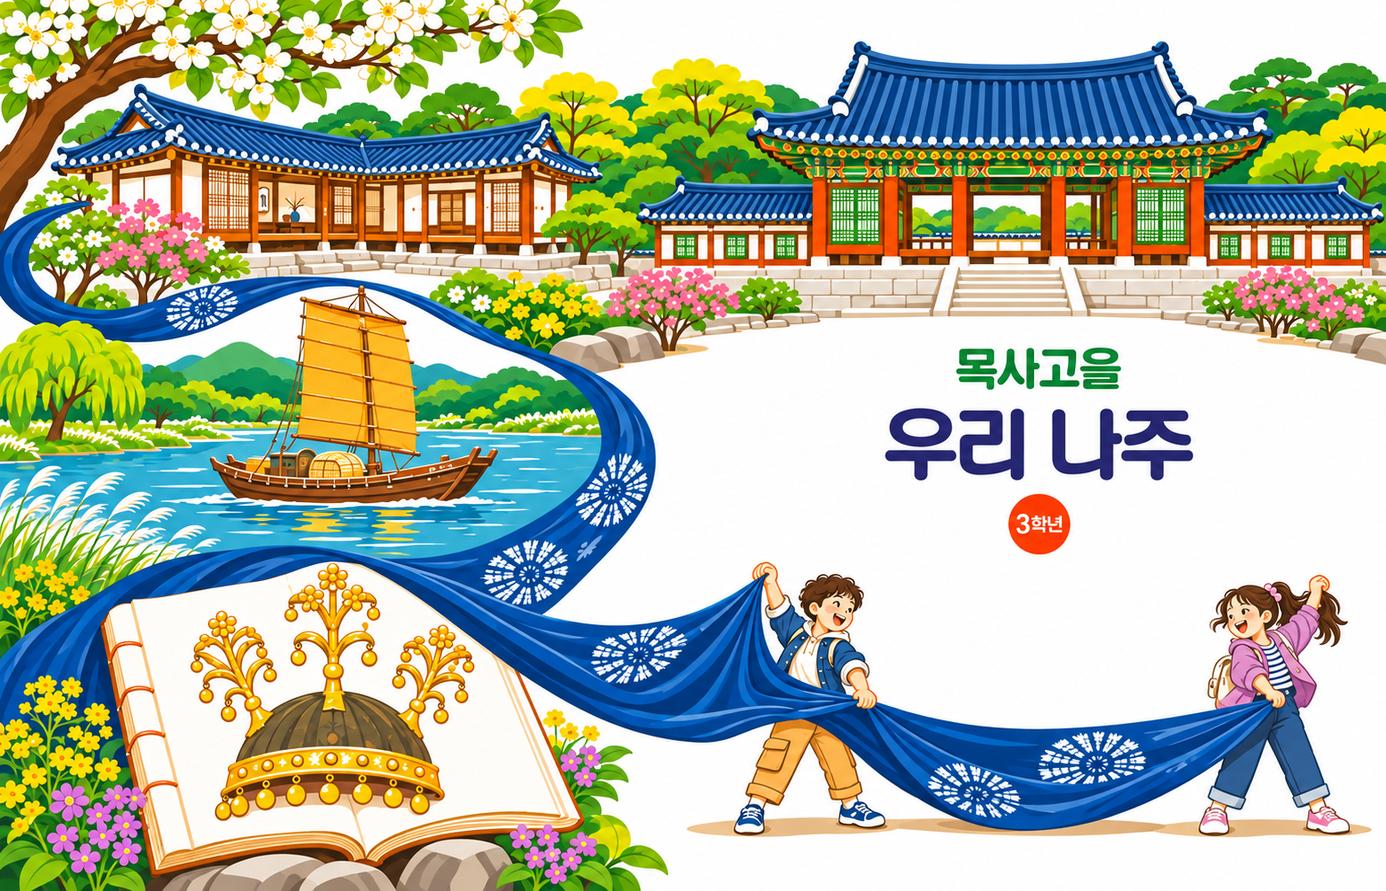
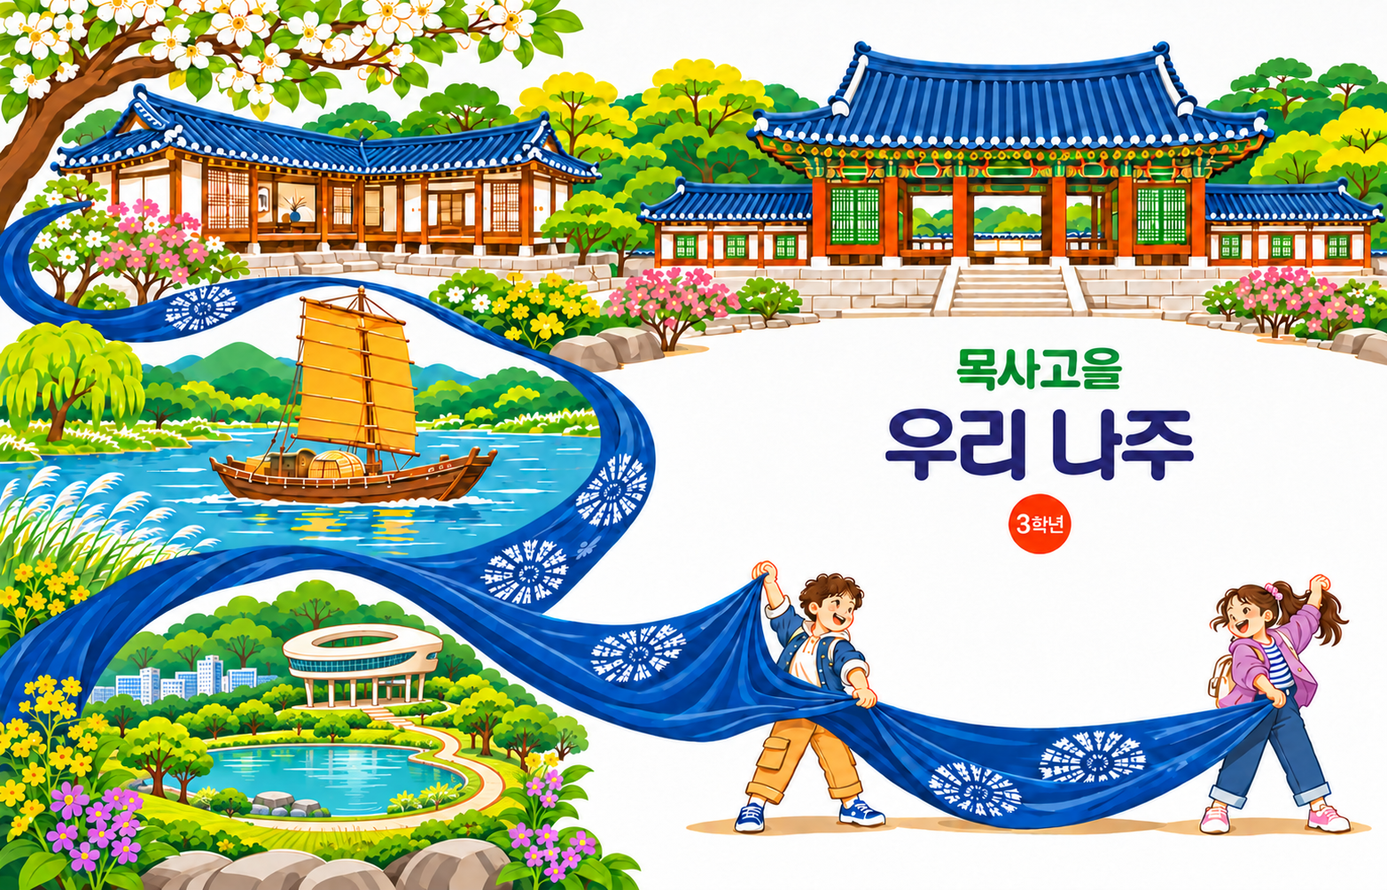
Update cover 77 with Bitgaram Lake Park and observatory

diff --git a/docs/index.html b/docs/index.html
@@ -17,7 +17,7 @@ html.front-mode .viewer-stage img:not(.front-page) {
   clip-path:inset(0 0 0 50%);
   transform:translateX(-25%);
   flex:none;
-}</style><link rel="stylesheet" href="editorial.css?v=4"><header><h1>목사고을 우리 나주</h1><p>표지 시안 10점</p><div class="gallery-tools"><nav aria-label="갤러리 메뉴"><a aria-current="page" data-view="spread" href="index.html?menu=4">펼친표지</a><a data-view="front" href="index.html?menu=4&amp;view=front">앞표지</a><a data-view="original" href="characters.html?menu=4">기존 캐릭터</a><a data-view="added" href="added.html?menu=4">추가 캐릭터</a></nav></div><div class="filter"><button id="compare" hidden disabled>선택 비교 (0)</button><small id="compare-hint" hidden>2~3장 선택</small></div></header><main><section><h2 class="series-title">하늘에서 본 나주</h2><div class="grid"><article id="cover-06"><a data-front="https://raw.githubusercontent.com/hhj3839/textbook/main/gallery/river-lake/front-06.webp" href="https://raw.githubusercontent.com/hhj3839/textbook/main/gallery/river-lake/cover-06.webp"><img loading="lazy" src="https://raw.githubusercontent.com/hhj3839/textbook/main/gallery/river-lake/cover-06.webp" alt="06번 논마다 반복되는 무늬 · 화이트톤"><b class="number">06</b><span>논마다 반복되는 무늬 · 화이트톤</span></a><label class="pick"><input type="checkbox" aria-label="06번 비교 선택">비교</label></article><article id="cover-21"><a data-front="https://raw.githubusercontent.com/hhj3839/textbook/main/gallery/river-lake/front-21.webp" href="https://raw.githubusercontent.com/hhj3839/textbook/main/gallery/river-lake/cover-21.webp"><img loading="lazy" src="https://raw.githubusercontent.com/hhj3839/textbook/main/gallery/river-lake/cover-21.webp" alt="21번 작은 입체 지도"><b class="number">21</b><span>작은 입체 지도</span></a><label class="pick"><input type="checkbox" aria-label="21번 비교 선택">비교</label></article><article id="cover-24"><a data-front="https://raw.githubusercontent.com/hhj3839/textbook/main/gallery/river-lake/front-24.webp" href="https://raw.githubusercontent.com/hhj3839/textbook/main/gallery/river-lake/cover-24.webp"><img loading="lazy" src="https://raw.githubusercontent.com/hhj3839/textbook/main/gallery/river-lake/cover-24.webp" alt="24번 강물에 비친 오후"><b class="number">24</b><span>강물에 비친 오후</span></a><label class="pick"><input type="checkbox" aria-label="24번 비교 선택">비교</label></article></div></section><section><h2 class="series-title">금성관 처마 아래</h2><div class="grid"><article id="cover-27"><a data-front="https://raw.githubusercontent.com/hhj3839/textbook/main/gallery/heritage-revision/front-27.webp" href="https://raw.githubusercontent.com/hhj3839/textbook/main/gallery/heritage-revision/cover-27.webp"><img loading="lazy" src="https://raw.githubusercontent.com/hhj3839/textbook/main/gallery/heritage-revision/cover-27.webp" alt="27번 통통한 서까래 끝 · 화이트톤"><b class="number">27</b><span>통통한 서까래 끝 · 화이트톤</span></a><label class="pick"><input type="checkbox" aria-label="27번 비교 선택">비교</label></article><article id="cover-30"><a data-front="https://raw.githubusercontent.com/hhj3839/textbook/main/gallery/heritage-revision/front-30.webp" href="https://raw.githubusercontent.com/hhj3839/textbook/main/gallery/heritage-revision/cover-30.webp"><img loading="lazy" src="https://raw.githubusercontent.com/hhj3839/textbook/main/gallery/heritage-revision/cover-30.webp" alt="30번 꽃무늬가 반복되는 처마 · 화이트톤"><b class="number">30</b><span>꽃무늬가 반복되는 처마 · 화이트톤</span></a><label class="pick"><input type="checkbox" aria-label="30번 비교 선택">비교</label></article></div></section><section><h2 class="series-title">금성관 마당과 쪽빛 천</h2><div class="grid"><article id="cover-76"><a data-front="https://raw.githubusercontent.com/hhj3839/textbook/main/gallery/courtyard/front-76.webp" href="https://raw.githubusercontent.com/hhj3839/textbook/main/gallery/courtyard/cover-76.webp"><img srcset="https://raw.githubusercontent.com/hhj3839/textbook/main/gallery/courtyard/cover-76.webp" sizes="(max-width:700px) 47vw, (max-width:1500px) 32vw, 470px" loading="lazy" src="https://raw.githubusercontent.com/hhj3839/textbook/main/gallery/courtyard/cover-76.webp" alt="76번 금성관 마당의 쪽빛 천"><b class="number">76</b><span>금성관 마당의 쪽빛 천</span></a><label class="pick"><input type="checkbox" aria-label="76번 비교 선택">비교</label></article><article id="cover-77"><a data-front="https://raw.githubusercontent.com/hhj3839/textbook/main/gallery/refined/front-77.webp" href="https://raw.githubusercontent.com/hhj3839/textbook/main/gallery/refined/cover-77.webp"><img srcset="https://raw.githubusercontent.com/hhj3839/textbook/main/gallery/refined/cover-77.webp" sizes="(max-width:700px) 47vw, (max-width:1500px) 32vw, 470px" loading="lazy" src="https://raw.githubusercontent.com/hhj3839/textbook/main/gallery/refined/cover-77.webp" alt="77번 쪽빛 천과 금동관"><b class="number">77</b><span>쪽빛 천과 금동관</span></a><label class="pick"><input type="checkbox" aria-label="77번 비교 선택">비교</label></article></div></section><section><h2 class="series-title">나주 풍경 펼친 표지</h2><div class="grid"><article id="cover-81"><a data-front="https://raw.githubusercontent.com/hhj3839/textbook/main/gallery/naju-spreads/front-81.webp" href="https://raw.githubusercontent.com/hhj3839/textbook/main/gallery/naju-spreads/cover-81.webp"><img loading="lazy" src="https://raw.githubusercontent.com/hhj3839/textbook/main/gallery/naju-spreads/cover-81.webp" alt="81번 황포돛배와 영산강"><b class="number">81</b><span>황포돛배와 영산강</span></a><label class="pick"><input type="checkbox" aria-label="81번 비교 선택">비교</label></article><article id="cover-82"><a data-front="https://raw.githubusercontent.com/hhj3839/textbook/main/gallery/naju-spreads/front-82.webp" href="https://raw.githubusercontent.com/hhj3839/textbook/main/gallery/naju-spreads/cover-82.webp"><img loading="lazy" src="https://raw.githubusercontent.com/hhj3839/textbook/main/gallery/naju-spreads/cover-82.webp" alt="82번 금성관 마당"><b class="number">82</b><span>금성관 마당</span></a><label class="pick"><input type="checkbox" aria-label="82번 비교 선택">비교</label></article><article id="cover-83"><a data-front="https://raw.githubusercontent.com/hhj3839/textbook/main/gallery/naju-spreads/front-83.webp" href="https://raw.githubusercontent.com/hhj3839/textbook/main/gallery/naju-spreads/cover-83.webp"><img loading="lazy" src="https://raw.githubusercontent.com/hhj3839/textbook/main/gallery/naju-spreads/cover-83.webp" alt="83번 강가의 등대와 빛가람전망대"><b class="number">83</b><span>강가의 등대와 빛가람전망대</span></a><label class="pick"><input type="checkbox" aria-label="83번 비교 선택">비교</label></article></div></section></main><dialog aria-label="선택한 표지 비교"><header><h2>선택한 표지</h2><button type="button">닫기</button></header><div class="grid"></div></dialog><script>if (new URLSearchParams(location.search).get('view') === 'front') {
+}</style><link rel="stylesheet" href="editorial.css?v=4"><header><h1>목사고을 우리 나주</h1><p>표지 시안 10점</p><div class="gallery-tools"><nav aria-label="갤러리 메뉴"><a aria-current="page" data-view="spread" href="index.html?menu=4">펼친표지</a><a data-view="front" href="index.html?menu=4&amp;view=front">앞표지</a><a data-view="original" href="characters.html?menu=4">기존 캐릭터</a><a data-view="added" href="added.html?menu=4">추가 캐릭터</a></nav></div><div class="filter"><button id="compare" hidden disabled>선택 비교 (0)</button><small id="compare-hint" hidden>2~3장 선택</small></div></header><main><section><h2 class="series-title">하늘에서 본 나주</h2><div class="grid"><article id="cover-06"><a data-front="https://raw.githubusercontent.com/hhj3839/textbook/main/gallery/river-lake/front-06.webp" href="https://raw.githubusercontent.com/hhj3839/textbook/main/gallery/river-lake/cover-06.webp"><img loading="lazy" src="https://raw.githubusercontent.com/hhj3839/textbook/main/gallery/river-lake/cover-06.webp" alt="06번 논마다 반복되는 무늬 · 화이트톤"><b class="number">06</b><span>논마다 반복되는 무늬 · 화이트톤</span></a><label class="pick"><input type="checkbox" aria-label="06번 비교 선택">비교</label></article><article id="cover-21"><a data-front="https://raw.githubusercontent.com/hhj3839/textbook/main/gallery/river-lake/front-21.webp" href="https://raw.githubusercontent.com/hhj3839/textbook/main/gallery/river-lake/cover-21.webp"><img loading="lazy" src="https://raw.githubusercontent.com/hhj3839/textbook/main/gallery/river-lake/cover-21.webp" alt="21번 작은 입체 지도"><b class="number">21</b><span>작은 입체 지도</span></a><label class="pick"><input type="checkbox" aria-label="21번 비교 선택">비교</label></article><article id="cover-24"><a data-front="https://raw.githubusercontent.com/hhj3839/textbook/main/gallery/river-lake/front-24.webp" href="https://raw.githubusercontent.com/hhj3839/textbook/main/gallery/river-lake/cover-24.webp"><img loading="lazy" src="https://raw.githubusercontent.com/hhj3839/textbook/main/gallery/river-lake/cover-24.webp" alt="24번 강물에 비친 오후"><b class="number">24</b><span>강물에 비친 오후</span></a><label class="pick"><input type="checkbox" aria-label="24번 비교 선택">비교</label></article></div></section><section><h2 class="series-title">금성관 처마 아래</h2><div class="grid"><article id="cover-27"><a data-front="https://raw.githubusercontent.com/hhj3839/textbook/main/gallery/heritage-revision/front-27.webp" href="https://raw.githubusercontent.com/hhj3839/textbook/main/gallery/heritage-revision/cover-27.webp"><img loading="lazy" src="https://raw.githubusercontent.com/hhj3839/textbook/main/gallery/heritage-revision/cover-27.webp" alt="27번 통통한 서까래 끝 · 화이트톤"><b class="number">27</b><span>통통한 서까래 끝 · 화이트톤</span></a><label class="pick"><input type="checkbox" aria-label="27번 비교 선택">비교</label></article><article id="cover-30"><a data-front="https://raw.githubusercontent.com/hhj3839/textbook/main/gallery/heritage-revision/front-30.webp" href="https://raw.githubusercontent.com/hhj3839/textbook/main/gallery/heritage-revision/cover-30.webp"><img loading="lazy" src="https://raw.githubusercontent.com/hhj3839/textbook/main/gallery/heritage-revision/cover-30.webp" alt="30번 꽃무늬가 반복되는 처마 · 화이트톤"><b class="number">30</b><span>꽃무늬가 반복되는 처마 · 화이트톤</span></a><label class="pick"><input type="checkbox" aria-label="30번 비교 선택">비교</label></article></div></section><section><h2 class="series-title">금성관 마당과 쪽빛 천</h2><div class="grid"><article id="cover-76"><a data-front="https://raw.githubusercontent.com/hhj3839/textbook/main/gallery/courtyard/front-76.webp" href="https://raw.githubusercontent.com/hhj3839/textbook/main/gallery/courtyard/cover-76.webp"><img srcset="https://raw.githubusercontent.com/hhj3839/textbook/main/gallery/courtyard/cover-76.webp" sizes="(max-width:700px) 47vw, (max-width:1500px) 32vw, 470px" loading="lazy" src="https://raw.githubusercontent.com/hhj3839/textbook/main/gallery/courtyard/cover-76.webp" alt="76번 금성관 마당의 쪽빛 천"><b class="number">76</b><span>금성관 마당의 쪽빛 천</span></a><label class="pick"><input type="checkbox" aria-label="76번 비교 선택">비교</label></article><article id="cover-77"><a data-front="https://raw.githubusercontent.com/hhj3839/textbook/main/gallery/refined/front-77.webp" href="https://raw.githubusercontent.com/hhj3839/textbook/main/gallery/refined/cover-77.webp"><img srcset="https://raw.githubusercontent.com/hhj3839/textbook/main/gallery/refined/cover-77.webp" sizes="(max-width:700px) 47vw, (max-width:1500px) 32vw, 470px" loading="lazy" src="https://raw.githubusercontent.com/hhj3839/textbook/main/gallery/refined/cover-77.webp" alt="77번 쪽빛 천과 빛가람호수공원 전망대"><b class="number">77</b><span>쪽빛 천과 빛가람호수공원 전망대</span></a><label class="pick"><input type="checkbox" aria-label="77번 비교 선택">비교</label></article></div></section><section><h2 class="series-title">나주 풍경 펼친 표지</h2><div class="grid"><article id="cover-81"><a data-front="https://raw.githubusercontent.com/hhj3839/textbook/main/gallery/naju-spreads/front-81.webp" href="https://raw.githubusercontent.com/hhj3839/textbook/main/gallery/naju-spreads/cover-81.webp"><img loading="lazy" src="https://raw.githubusercontent.com/hhj3839/textbook/main/gallery/naju-spreads/cover-81.webp" alt="81번 황포돛배와 영산강"><b class="number">81</b><span>황포돛배와 영산강</span></a><label class="pick"><input type="checkbox" aria-label="81번 비교 선택">비교</label></article><article id="cover-82"><a data-front="https://raw.githubusercontent.com/hhj3839/textbook/main/gallery/naju-spreads/front-82.webp" href="https://raw.githubusercontent.com/hhj3839/textbook/main/gallery/naju-spreads/cover-82.webp"><img loading="lazy" src="https://raw.githubusercontent.com/hhj3839/textbook/main/gallery/naju-spreads/cover-82.webp" alt="82번 금성관 마당"><b class="number">82</b><span>금성관 마당</span></a><label class="pick"><input type="checkbox" aria-label="82번 비교 선택">비교</label></article><article id="cover-83"><a data-front="https://raw.githubusercontent.com/hhj3839/textbook/main/gallery/naju-spreads/front-83.webp" href="https://raw.githubusercontent.com/hhj3839/textbook/main/gallery/naju-spreads/cover-83.webp"><img loading="lazy" src="https://raw.githubusercontent.com/hhj3839/textbook/main/gallery/naju-spreads/cover-83.webp" alt="83번 강가의 등대와 빛가람전망대"><b class="number">83</b><span>강가의 등대와 빛가람전망대</span></a><label class="pick"><input type="checkbox" aria-label="83번 비교 선택">비교</label></article></div></section></main><dialog aria-label="선택한 표지 비교"><header><h2>선택한 표지</h2><button type="button">닫기</button></header><div class="grid"></div></dialog><script>if (new URLSearchParams(location.search).get('view') === 'front') {
   document.documentElement.classList.add('front-mode');
   document.querySelector('[data-view="spread"]').removeAttribute('aria-current');
   document.querySelector('[data-view="front"]').setAttribute('aria-current','page');

diff --git a/index.html b/index.html
@@ -17,7 +17,7 @@ html.front-mode .viewer-stage img:not(.front-page) {
   clip-path:inset(0 0 0 50%);
   transform:translateX(-25%);
   flex:none;
-}</style><link rel="stylesheet" href="docs/editorial.css?v=4"><header><h1>목사고을 우리 나주</h1><p>표지 시안 10점</p><div class="gallery-tools"><nav aria-label="갤러리 메뉴"><a aria-current="page" data-view="spread" href="index.html?menu=4">펼친표지</a><a data-view="front" href="index.html?menu=4&amp;view=front">앞표지</a><a data-view="original" href="characters.html?menu=4">기존 캐릭터</a><a data-view="added" href="added.html?menu=4">추가 캐릭터</a></nav></div><div class="filter"><button id="compare" hidden disabled>선택 비교 (0)</button><small id="compare-hint" hidden>2~3장 선택</small></div></header><main><section><h2 class="series-title">하늘에서 본 나주</h2><div class="grid"><article id="cover-06"><a data-front="gallery/river-lake/front-06.webp" href="gallery/river-lake/cover-06.webp"><img loading="lazy" src="gallery/river-lake/cover-06.webp" alt="06번 논마다 반복되는 무늬 · 화이트톤"><b class="number">06</b><span>논마다 반복되는 무늬 · 화이트톤</span></a><label class="pick"><input type="checkbox" aria-label="06번 비교 선택">비교</label></article><article id="cover-21"><a data-front="gallery/river-lake/front-21.webp" href="gallery/river-lake/cover-21.webp"><img loading="lazy" src="gallery/river-lake/cover-21.webp" alt="21번 작은 입체 지도"><b class="number">21</b><span>작은 입체 지도</span></a><label class="pick"><input type="checkbox" aria-label="21번 비교 선택">비교</label></article><article id="cover-24"><a data-front="gallery/river-lake/front-24.webp" href="gallery/river-lake/cover-24.webp"><img loading="lazy" src="gallery/river-lake/cover-24.webp" alt="24번 강물에 비친 오후"><b class="number">24</b><span>강물에 비친 오후</span></a><label class="pick"><input type="checkbox" aria-label="24번 비교 선택">비교</label></article></div></section><section><h2 class="series-title">금성관 처마 아래</h2><div class="grid"><article id="cover-27"><a data-front="gallery/heritage-revision/front-27.webp" href="gallery/heritage-revision/cover-27.webp"><img loading="lazy" src="gallery/heritage-revision/cover-27.webp" alt="27번 통통한 서까래 끝 · 화이트톤"><b class="number">27</b><span>통통한 서까래 끝 · 화이트톤</span></a><label class="pick"><input type="checkbox" aria-label="27번 비교 선택">비교</label></article><article id="cover-30"><a data-front="gallery/heritage-revision/front-30.webp" href="gallery/heritage-revision/cover-30.webp"><img loading="lazy" src="gallery/heritage-revision/cover-30.webp" alt="30번 꽃무늬가 반복되는 처마 · 화이트톤"><b class="number">30</b><span>꽃무늬가 반복되는 처마 · 화이트톤</span></a><label class="pick"><input type="checkbox" aria-label="30번 비교 선택">비교</label></article></div></section><section><h2 class="series-title">금성관 마당과 쪽빛 천</h2><div class="grid"><article id="cover-76"><a data-front="gallery/courtyard/front-76.webp" href="gallery/courtyard/cover-76.webp"><img srcset="gallery/courtyard/cover-76.webp" sizes="(max-width:700px) 47vw, (max-width:1500px) 32vw, 470px" loading="lazy" src="gallery/courtyard/cover-76.webp" alt="76번 금성관 마당의 쪽빛 천"><b class="number">76</b><span>금성관 마당의 쪽빛 천</span></a><label class="pick"><input type="checkbox" aria-label="76번 비교 선택">비교</label></article><article id="cover-77"><a data-front="gallery/refined/front-77.webp" href="gallery/refined/cover-77.webp"><img srcset="gallery/refined/cover-77.webp" sizes="(max-width:700px) 47vw, (max-width:1500px) 32vw, 470px" loading="lazy" src="gallery/refined/cover-77.webp" alt="77번 쪽빛 천과 금동관"><b class="number">77</b><span>쪽빛 천과 금동관</span></a><label class="pick"><input type="checkbox" aria-label="77번 비교 선택">비교</label></article></div></section><section><h2 class="series-title">나주 풍경 펼친 표지</h2><div class="grid"><article id="cover-81"><a data-front="gallery/naju-spreads/front-81.webp" href="gallery/naju-spreads/cover-81.webp"><img loading="lazy" src="gallery/naju-spreads/cover-81.webp" alt="81번 황포돛배와 영산강"><b class="number">81</b><span>황포돛배와 영산강</span></a><label class="pick"><input type="checkbox" aria-label="81번 비교 선택">비교</label></article><article id="cover-82"><a data-front="gallery/naju-spreads/front-82.webp" href="gallery/naju-spreads/cover-82.webp"><img loading="lazy" src="gallery/naju-spreads/cover-82.webp" alt="82번 금성관 마당"><b class="number">82</b><span>금성관 마당</span></a><label class="pick"><input type="checkbox" aria-label="82번 비교 선택">비교</label></article><article id="cover-83"><a data-front="gallery/naju-spreads/front-83.webp" href="gallery/naju-spreads/cover-83.webp"><img loading="lazy" src="gallery/naju-spreads/cover-83.webp" alt="83번 강가의 등대와 빛가람전망대"><b class="number">83</b><span>강가의 등대와 빛가람전망대</span></a><label class="pick"><input type="checkbox" aria-label="83번 비교 선택">비교</label></article></div></section></main><dialog aria-label="선택한 표지 비교"><header><h2>선택한 표지</h2><button type="button">닫기</button></header><div class="grid"></div></dialog><script>if (new URLSearchParams(location.search).get('view') === 'front') {
+}</style><link rel="stylesheet" href="docs/editorial.css?v=4"><header><h1>목사고을 우리 나주</h1><p>표지 시안 10점</p><div class="gallery-tools"><nav aria-label="갤러리 메뉴"><a aria-current="page" data-view="spread" href="index.html?menu=4">펼친표지</a><a data-view="front" href="index.html?menu=4&amp;view=front">앞표지</a><a data-view="original" href="characters.html?menu=4">기존 캐릭터</a><a data-view="added" href="added.html?menu=4">추가 캐릭터</a></nav></div><div class="filter"><button id="compare" hidden disabled>선택 비교 (0)</button><small id="compare-hint" hidden>2~3장 선택</small></div></header><main><section><h2 class="series-title">하늘에서 본 나주</h2><div class="grid"><article id="cover-06"><a data-front="gallery/river-lake/front-06.webp" href="gallery/river-lake/cover-06.webp"><img loading="lazy" src="gallery/river-lake/cover-06.webp" alt="06번 논마다 반복되는 무늬 · 화이트톤"><b class="number">06</b><span>논마다 반복되는 무늬 · 화이트톤</span></a><label class="pick"><input type="checkbox" aria-label="06번 비교 선택">비교</label></article><article id="cover-21"><a data-front="gallery/river-lake/front-21.webp" href="gallery/river-lake/cover-21.webp"><img loading="lazy" src="gallery/river-lake/cover-21.webp" alt="21번 작은 입체 지도"><b class="number">21</b><span>작은 입체 지도</span></a><label class="pick"><input type="checkbox" aria-label="21번 비교 선택">비교</label></article><article id="cover-24"><a data-front="gallery/river-lake/front-24.webp" href="gallery/river-lake/cover-24.webp"><img loading="lazy" src="gallery/river-lake/cover-24.webp" alt="24번 강물에 비친 오후"><b class="number">24</b><span>강물에 비친 오후</span></a><label class="pick"><input type="checkbox" aria-label="24번 비교 선택">비교</label></article></div></section><section><h2 class="series-title">금성관 처마 아래</h2><div class="grid"><article id="cover-27"><a data-front="gallery/heritage-revision/front-27.webp" href="gallery/heritage-revision/cover-27.webp"><img loading="lazy" src="gallery/heritage-revision/cover-27.webp" alt="27번 통통한 서까래 끝 · 화이트톤"><b class="number">27</b><span>통통한 서까래 끝 · 화이트톤</span></a><label class="pick"><input type="checkbox" aria-label="27번 비교 선택">비교</label></article><article id="cover-30"><a data-front="gallery/heritage-revision/front-30.webp" href="gallery/heritage-revision/cover-30.webp"><img loading="lazy" src="gallery/heritage-revision/cover-30.webp" alt="30번 꽃무늬가 반복되는 처마 · 화이트톤"><b class="number">30</b><span>꽃무늬가 반복되는 처마 · 화이트톤</span></a><label class="pick"><input type="checkbox" aria-label="30번 비교 선택">비교</label></article></div></section><section><h2 class="series-title">금성관 마당과 쪽빛 천</h2><div class="grid"><article id="cover-76"><a data-front="gallery/courtyard/front-76.webp" href="gallery/courtyard/cover-76.webp"><img srcset="gallery/courtyard/cover-76.webp" sizes="(max-width:700px) 47vw, (max-width:1500px) 32vw, 470px" loading="lazy" src="gallery/courtyard/cover-76.webp" alt="76번 금성관 마당의 쪽빛 천"><b class="number">76</b><span>금성관 마당의 쪽빛 천</span></a><label class="pick"><input type="checkbox" aria-label="76번 비교 선택">비교</label></article><article id="cover-77"><a data-front="gallery/refined/front-77.webp" href="gallery/refined/cover-77.webp"><img srcset="gallery/refined/cover-77.webp" sizes="(max-width:700px) 47vw, (max-width:1500px) 32vw, 470px" loading="lazy" src="gallery/refined/cover-77.webp" alt="77번 쪽빛 천과 빛가람호수공원 전망대"><b class="number">77</b><span>쪽빛 천과 빛가람호수공원 전망대</span></a><label class="pick"><input type="checkbox" aria-label="77번 비교 선택">비교</label></article></div></section><section><h2 class="series-title">나주 풍경 펼친 표지</h2><div class="grid"><article id="cover-81"><a data-front="gallery/naju-spreads/front-81.webp" href="gallery/naju-spreads/cover-81.webp"><img loading="lazy" src="gallery/naju-spreads/cover-81.webp" alt="81번 황포돛배와 영산강"><b class="number">81</b><span>황포돛배와 영산강</span></a><label class="pick"><input type="checkbox" aria-label="81번 비교 선택">비교</label></article><article id="cover-82"><a data-front="gallery/naju-spreads/front-82.webp" href="gallery/naju-spreads/cover-82.webp"><img loading="lazy" src="gallery/naju-spreads/cover-82.webp" alt="82번 금성관 마당"><b class="number">82</b><span>금성관 마당</span></a><label class="pick"><input type="checkbox" aria-label="82번 비교 선택">비교</label></article><article id="cover-83"><a data-front="gallery/naju-spreads/front-83.webp" href="gallery/naju-spreads/cover-83.webp"><img loading="lazy" src="gallery/naju-spreads/cover-83.webp" alt="83번 강가의 등대와 빛가람전망대"><b class="number">83</b><span>강가의 등대와 빛가람전망대</span></a><label class="pick"><input type="checkbox" aria-label="83번 비교 선택">비교</label></article></div></section></main><dialog aria-label="선택한 표지 비교"><header><h2>선택한 표지</h2><button type="button">닫기</button></header><div class="grid"></div></dialog><script>if (new URLSearchParams(location.search).get('view') === 'front') {
   document.documentElement.classList.add('front-mode');
   document.querySelector('[data-view="spread"]').removeAttribute('aria-current');
   document.querySelector('[data-view="front"]').setAttribute('aria-current','page');
